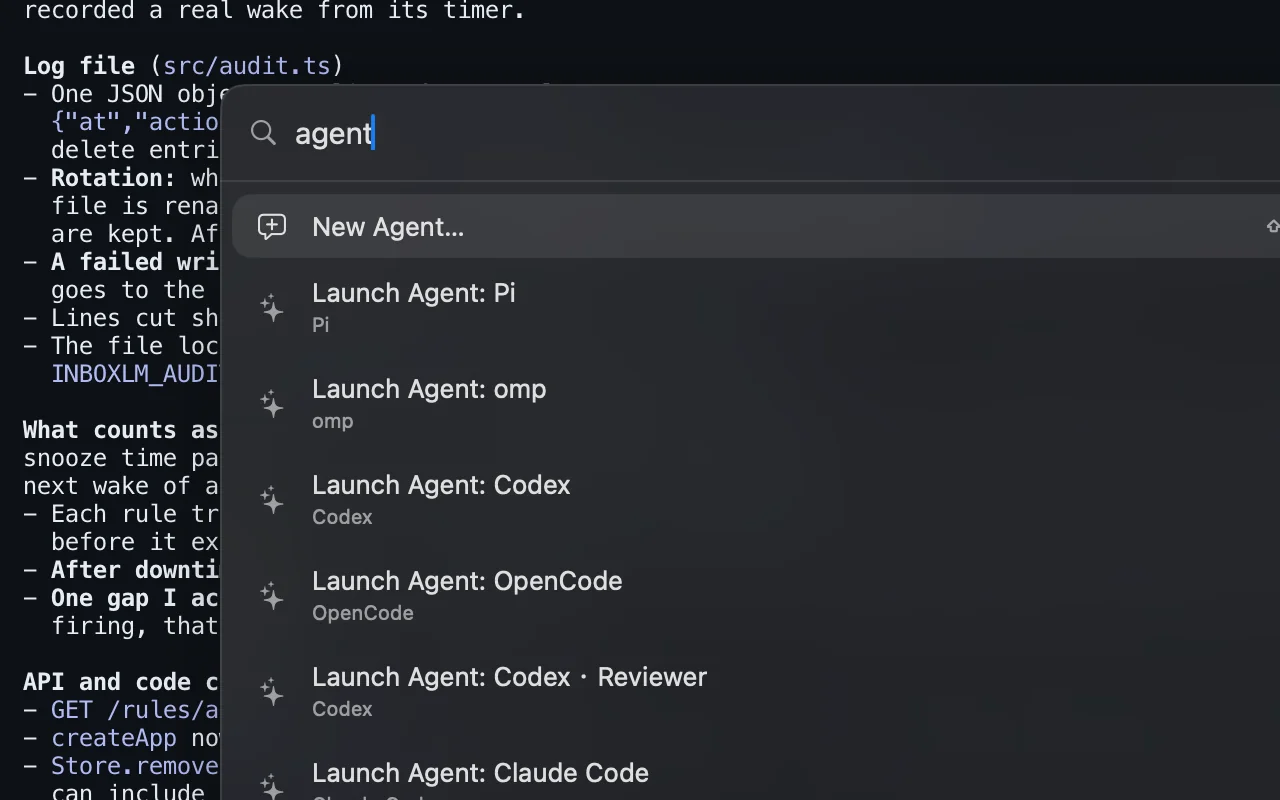
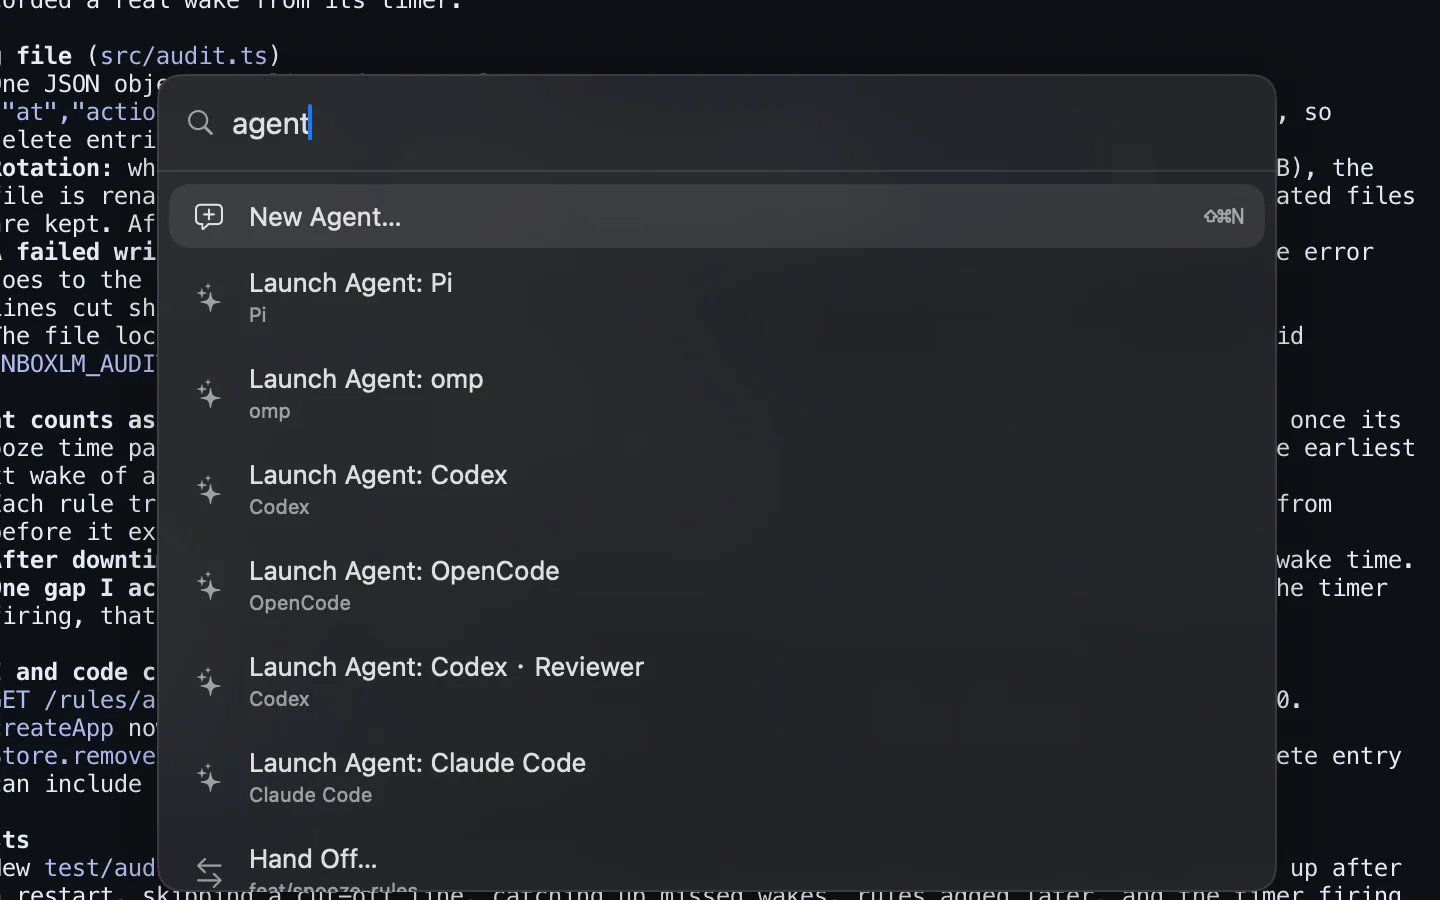
feat(website): turn Speed into Quick actions, a list that switches one picture
The copy is shorter. The command palette is in the center of its picture
and the Run menu picture has the whole header.

diff --git a/apps/website/src/i18n/en.ts b/apps/website/src/i18n/en.ts
@@ -213,30 +213,30 @@ export const en = {
       altSuffix: "theme in the Codans window",
     },
     speed: {
-      title: "Speed",
+      title: "Quick actions",
       items: [
         {
           shot: "palette",
           title: "Command palette",
-          body: "<kbd>⌘P</kbd> finds every action: switch worktree, launch an agent, run a command, split a pane.",
+          body: "<kbd>⌘P</kbd> finds every action.",
           alt: "The command palette with the query agent and a list of Launch Agent actions.",
         },
         {
           shot: "run-menu",
-          title: "Project and global commands",
-          body: "Bind build, test, and dev-server commands to the Run button and to shortcuts. Codans reads package.json, Makefile, justfile, Cargo.toml and more, and offers the commands it finds.",
+          title: "Run commands",
+          body: "Bind build, test, and dev-server commands to the Run button. Codans finds the scripts in your project files.",
           alt: "The Run menu with four project commands and the scripts found in package.json.",
         },
         {
           shot: "shortcuts",
-          title: "Shortcuts for everything",
-          body: "Every action has a shortcut that you can change, disable, or search for.",
+          title: "Shortcuts",
+          body: "Every action has a shortcut that you can change.",
           alt: "The Shortcuts pane of Settings with a table of actions and key combinations.",
         },
         {
           shot: "open-in",
-          title: "Your editor, one key away",
-          body: "<kbd>⌘O</kbd> opens the worktree in VS Code, Cursor, Zed, Xcode, or a JetBrains IDE. Codans is not an IDE and does not try to be.",
+          title: "Open in your editor",
+          body: "<kbd>⌘O</kbd> opens the worktree in your editor.",
           alt: "The Open in menu with a list of editors, terminals, and git clients.",
         },
       ],

diff --git a/apps/website/src/i18n/zh.ts b/apps/website/src/i18n/zh.ts
@@ -210,30 +210,30 @@ export const zh: Dictionary = {
       altSuffix: "主题下的 Codans 窗口",
     },
     speed: {
-      title: "效率",
+      title: "快捷操作",
       items: [
         {
           shot: "palette",
           title: "命令面板",
-          body: "<kbd>⌘P</kbd> 查找所有操作：切换 worktree、启动 Agent、运行命令、分屏。",
+          body: "<kbd>⌘P</kbd> 查找所有操作。",
           alt: "命令面板，输入 agent 后列出 Launch Agent 操作。",
         },
         {
           shot: "run-menu",
-          title: "项目命令与全局命令",
-          body: "把构建、测试、开发服务器命令绑定到 Run 按钮和快捷键。Codans 会读取 package.json、Makefile、justfile、Cargo.toml 等文件，把找到的命令列出来。",
+          title: "运行命令",
+          body: "把构建、测试、开发服务器绑定到 Run 按钮。Codans 会从项目文件里找出脚本。",
           alt: "Run 菜单：四个项目命令，以及在 package.json 里找到的脚本。",
         },
         {
           shot: "shortcuts",
-          title: "完整的快捷键",
-          body: "每个操作都有快捷键，可以修改、停用，也可以搜索。",
+          title: "快捷键",
+          body: "每个操作都有快捷键，可以修改。",
           alt: "设置里的 Shortcuts 面板：操作与按键组合的表格。",
         },
         {
           shot: "open-in",
-          title: "一个按键打开编辑器",
-          body: "<kbd>⌘O</kbd> 在 VS Code、Cursor、Zed、Xcode 或 JetBrains IDE 中打开 worktree。Codans 不是 IDE，也不打算成为 IDE。",
+          title: "打开编辑器",
+          body: "<kbd>⌘O</kbd> 在你的编辑器里打开 worktree。",
           alt: "Open in 菜单：编辑器、终端和 git 客户端列表。",
         },
       ],

diff --git a/apps/website/src/styles/global.css b/apps/website/src/styles/global.css
@@ -507,6 +507,35 @@
     padding-bottom: 4px;
   }
 
+  /* A switcher list: the selected item is raised, the others are quiet. */
+  .switcher-list {
+    display: flex;
+    flex-direction: column;
+    justify-content: center;
+    gap: 4px;
+    padding: 12px;
+  }
+  .switcher-item {
+    display: grid;
+    gap: 6px;
+    padding: 16px 18px;
+    border-radius: 10px;
+    text-align: left;
+    cursor: pointer;
+    opacity: 0.62;
+    transition:
+      opacity 0.2s ease,
+      background-color 0.2s ease;
+  }
+  .switcher-item:hover {
+    opacity: 1;
+  }
+  .switcher-item[aria-selected="true"] {
+    background: var(--surface);
+    box-shadow: 0 0 0 1px var(--line);
+    opacity: 1;
+  }
+
   /* The block that turns the page colors around. */
   .inverse {
     padding: 40px 32px;

diff --git a/apps/website/scripts/build-shots.py b/apps/website/scripts/build-shots.py
@@ -33,8 +33,8 @@ jobs = [
 ] + [("theme-" + n, "theme-" + n + ".png", None, 640) for n in (
   "dracula latte tokyonight gruvbox nord rosepine-dawn github-dark monokai github-light kanagawa one-dark "
   "everforest mocha gruvbox-light night-owl solarized rosepine ayu").split()] + [
-  ("palette", "full-palette.png", (660, 180, 1940, 980), 1280),
-  ("run-menu", "full-run.png", (1248, 40, 2880, 1060), 1280),
+  ("palette", "full-palette.png", (723, 190, 2163, 1090), 1440),
+  ("run-menu", "full-run.png", (1248, 0, 2880, 1020), 1440),
   ("shortcuts", "set-shortcuts.png", None, 1280),
   ("open-in", "full-open.png", (1400, 60, 2880, 985), 1280),
 ]
